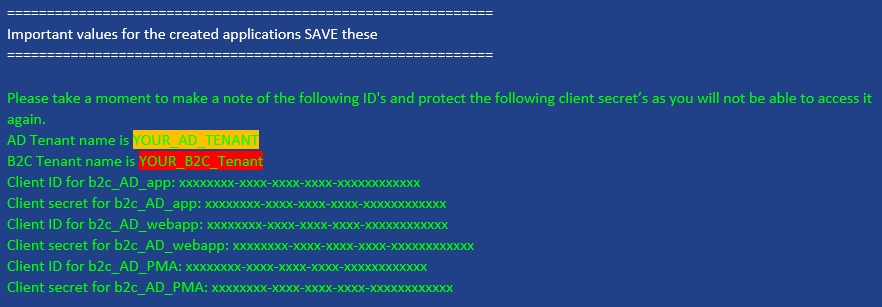
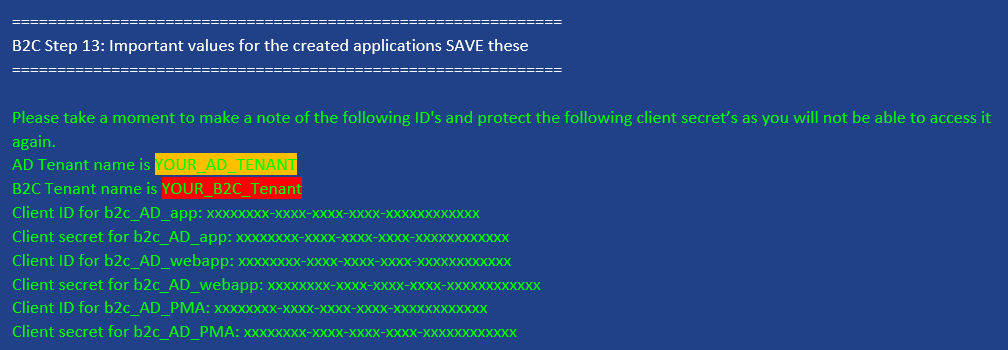
Modified B2CDeployment.ps1 to explicitly mention the automatic steps

Changed region(s): [[0.0, 0.3811, 0.551, 0.9674], [0.0, 0.0293, 0.5816, 0.2052], [0.0, 0.2932, 1.0, 0.3518]]

diff --git a/deployment/B2C_Docs/B2C_Deployment.md b/deployment/B2C_Docs/B2C_Deployment.md
@@ -51,8 +51,11 @@ This document will explain the steps that contain user interaction and what is r
 | ![Login to B2C Tenant](Images/Deployment/01a_LoginTenant1.png) |
 |---|
 | The launched tab should look similar to the above; please login using it and then switch back to the powershell |
-* After logging in, the script will automatically create and configure the B2C Web App, Permission Management App, Identity Experience Framework App, and Proxy Identify Experience Framework App (steps 3-6 inclusive)
 
+
+## Steps 3-6 automatic setup (app creations on the b2c tenant):
+
+* The script will automatically create and configure the B2C Web App, Permission Management App, Identity Experience Framework App, and Proxy Identify Experience Framework App (steps 3-6 inclusive)
 
 ## Step 7: Creating a whitelist for the tenants we wish to give access to
 * You have 2 choices for how to create the whitelist of tenant id's you wish to give access to:
@@ -90,7 +93,9 @@ This document will explain the steps that contain user interaction and what is r
 
 
 
+## Steps 9 & 10 automatic setup (creating and formatting the custom policies)
 
+* The creation and formatting of the custom policies will now be done automatically without requiring any further input
 
 ## Step 11: Adding Signing and Encryption keys and AADAppSecret for the IEF Applications
 
@@ -100,9 +105,12 @@ This document will explain the steps that contain user interaction and what is r
 * If your console returns a 403 bad request error, please click [here](#403-forbidden-error)
 
 
+## Step 12 automatic setup (uploading the custom policies)
+
+* The custom policies will now be uploaded automatically without requiring further input
 
 
-## IMPORTANT: Secret Values
+## Step 13: IMPORTANT - Store Secret Values
 
 ![Secret Values](Images/Deployment/13_secrets.png)
 * After the script finishes running it will output some important values in green and then pause the script (ID and secret values for the created AD app, Permission Management App, and Web App).
